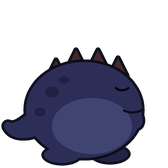
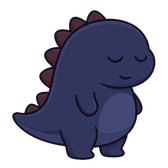
Pupil: burczek i jajka z Gemini - wszystkie postacie podmienione
Ostatnia forma (burczek) i trzy jajka (eggs_sheet: kremowe, niebieskie,
brzoskwiniowe -> egg, eggh, eggf; klatki kołysania, pęknięcie, ikony
wyboru i małe jajko do gry). README opisuje nowy obieg grafiki.

diff --git a/pupil/README.md b/pupil/README.md
@@ -1,6 +1,6 @@
 # Pupil – tamagotchi z dinozaurem
 
-Klasyczne tamagotchi na Amazfit T-Rex 3: z jajka wykluwa się dinozaur (gładka, kreskówkowa grafika),
+Klasyczne tamagotchi na Amazfit T-Rex 3: z jajka wykluwa się dinozaur (kreskówkowe postacie wygenerowane w Gemini),
 rośnie przez kilka etapów i zmienia formę zależnie od tego, jak o niego dbasz.
 Tempo jest luźne – wystarczy zajrzeć 2–3 razy dziennie. Czas płynie także przy
 zamkniętej aplikacji.
@@ -138,16 +138,22 @@ padają tylko między 7:45 a 22:00; jeśli już czegoś potrzebuje, kolejne za 2
 - `utils/reminder.js` – alarm z przypomnieniem (funkcja `nextReminder` w `pet.js`).
 - `tools/smoke.mjs` – smoke test prawdziwych bundli zeusa w Node `vm` (atrapy `@zos/*`,
   sztuczny zegar); bundle przechwytuje `tools/capture-hook.cjs` (opis w nagłówku smoke.mjs).
-- `tools/gen_assets.py` – grafika: postacie w `tools/forms.py` z prostych kształtów
-  (elipsy, wielokąty, zwężające się „rurki”, `tools/draw.py`) rysowanych w 8× powiększeniu
-  z obrysem jak naklejka; miny i klatki (oddech, radość, smutek, sen, jedzenie, lustro)
-  dorysowuje generator. Ikony w `tools/icons.py`. Powstają też `utils/geometry.js`,
-  arkusz `docs/arkusz.png` i makieta `docs/podglad.png`.
+- Postacie i jajka są wygenerowane w Gemini („Utwórz obraz”): arkusz 2×2 każdej formy
+  (spokój, radość, smutek, sen) według `../pupil-art/prompts.md`. Arkusze leżą w
+  `../pupil-art/`, poza folderem aplikacji, bo `zeus build` pakuje cały folder do `.ip-package`.
+  `tools/grab_gemini.py <forma>` kopiuje świeży obraz z Pobranych, `tools/import_art.py`
+  wycina tło, odwraca minę obróconą w lewo, wyrównuje miny wspólną skalą i robi klatki
+  (oddech = spłaszczenie, podskok, noc = przyciemnienie, lustro); jajka z jednego obrazu
+  `eggs` (kołysanie, dorysowane pęknięcie). `tools/preview_art.py` – podgląd.
+- `tools/gen_assets.py` – reszta grafiki: ikony (`tools/icons.py`), `utils/geometry.js`,
+  arkusz `docs/arkusz.png` i makieta `docs/podglad.png`; na końcu uruchamia import z
+  `pupil-art/`. Rysowane w Pillow postacie (`tools/forms.py`, `tools/draw.py`) zostają jako
+  zapas dla formy bez arkusza.
 
 ```bash
 npm install
 npm test                     # testy logiki w Node
-python tools/gen_assets.py   # po zmianie grafiki
+python tools/gen_assets.py   # po zmianie grafiki (importuje też arkusze z ../pupil-art)
 zeus preview                 # instalacja na zegarku
 ```
 

diff --git a/pupil-art/prompts.md b/pupil-art/prompts.md
@@ -16,7 +16,7 @@ generować obrazów; wtedy w tej samej rozmowie „Generate this image now using
 generation tool.”). Minę obróconą w lewo import_art.py sam odwraca; formom z długim ogonem
 lub szerokimi skrzydłami wpisz w TAIL_KEEP, żeby nie obcinać ich w kadrze.
 
-Gotowe: tupek, pisklak, lobuz, rex, allo, kropek, rozek, rogal, szyjek, kolec, piorko, pterek, lotek, ptero, mewa, gapcio, mruk.
+Gotowe: wszystkie 18 form i jajka (eggs).
 
 ## STYL (początek każdego promptu)
 
